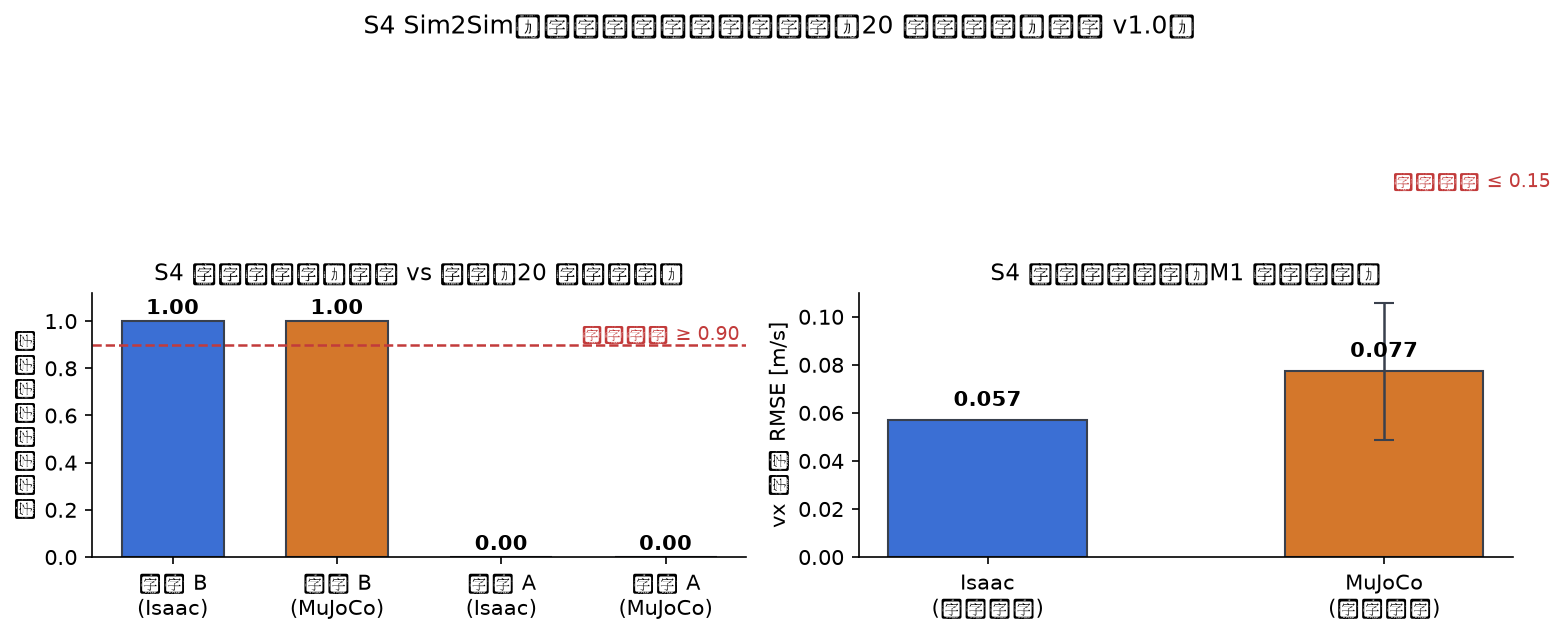
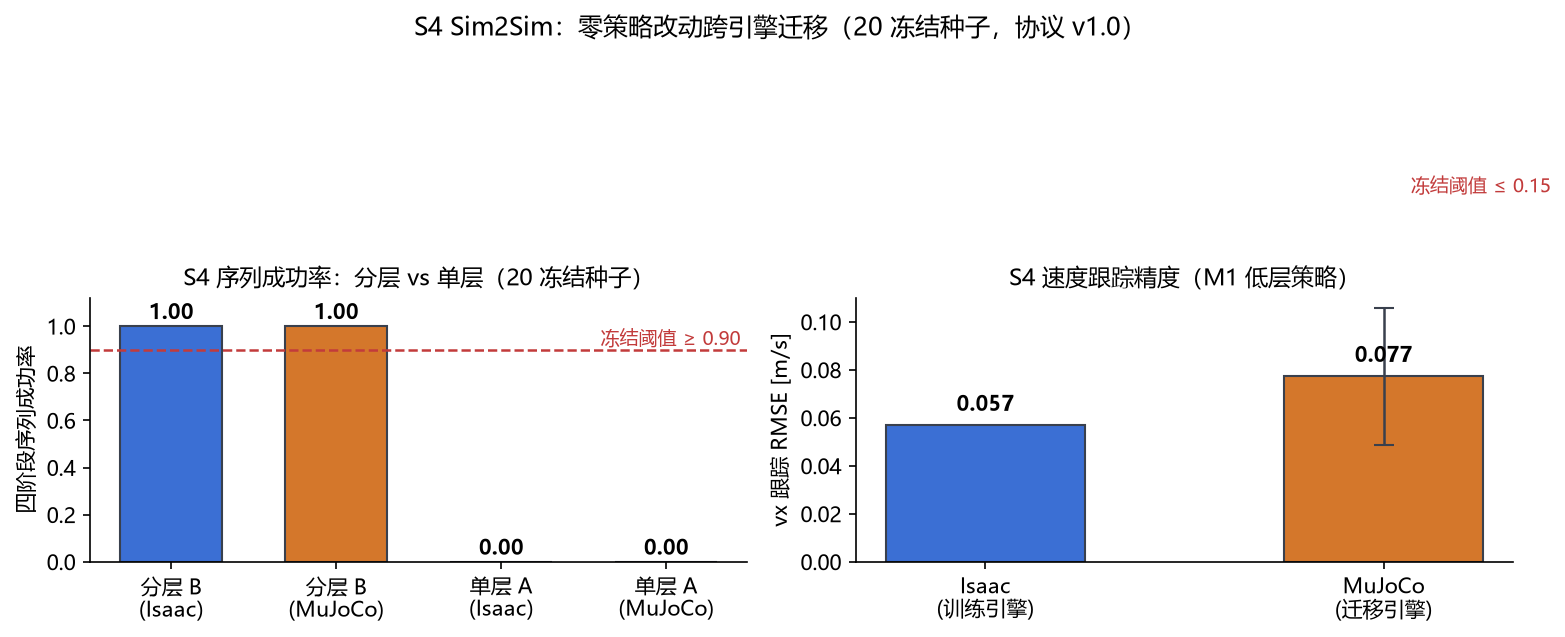
fix(demo): CJK font for the S4 chart — Chinese labels rendered as tofu boxes
matplotlib's DejaVu Sans has no CJK glyphs; pin Microsoft YaHei/SimHei with
axes.unicode_minus=False so the frozen-protocol labels render correctly

diff --git a/scripts/make_s4_charts.py b/scripts/make_s4_charts.py
@@ -14,6 +14,10 @@ import matplotlib
 
 matplotlib.use("Agg")
 import matplotlib.pyplot as plt  # noqa: E402
+
+# CJK glyphs: DejaVu Sans has none — Chinese labels render as tofu boxes
+plt.rcParams["font.sans-serif"] = ["Microsoft YaHei", "SimHei", "DejaVu Sans"]
+plt.rcParams["axes.unicode_minus"] = False
 import numpy as np  # noqa: E402
 
 OUT = pathlib.Path(__file__).resolve().parents[1] / "media" / "training" / "s4_sim2sim_comparison.png"
